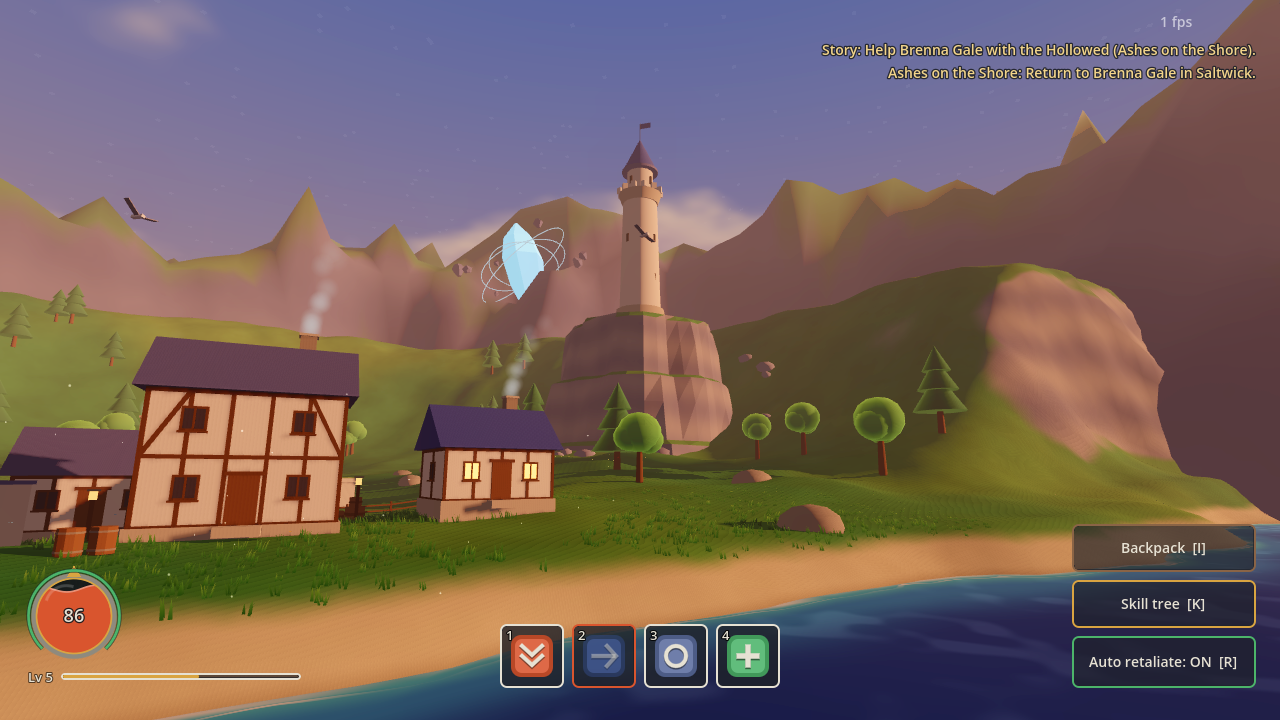
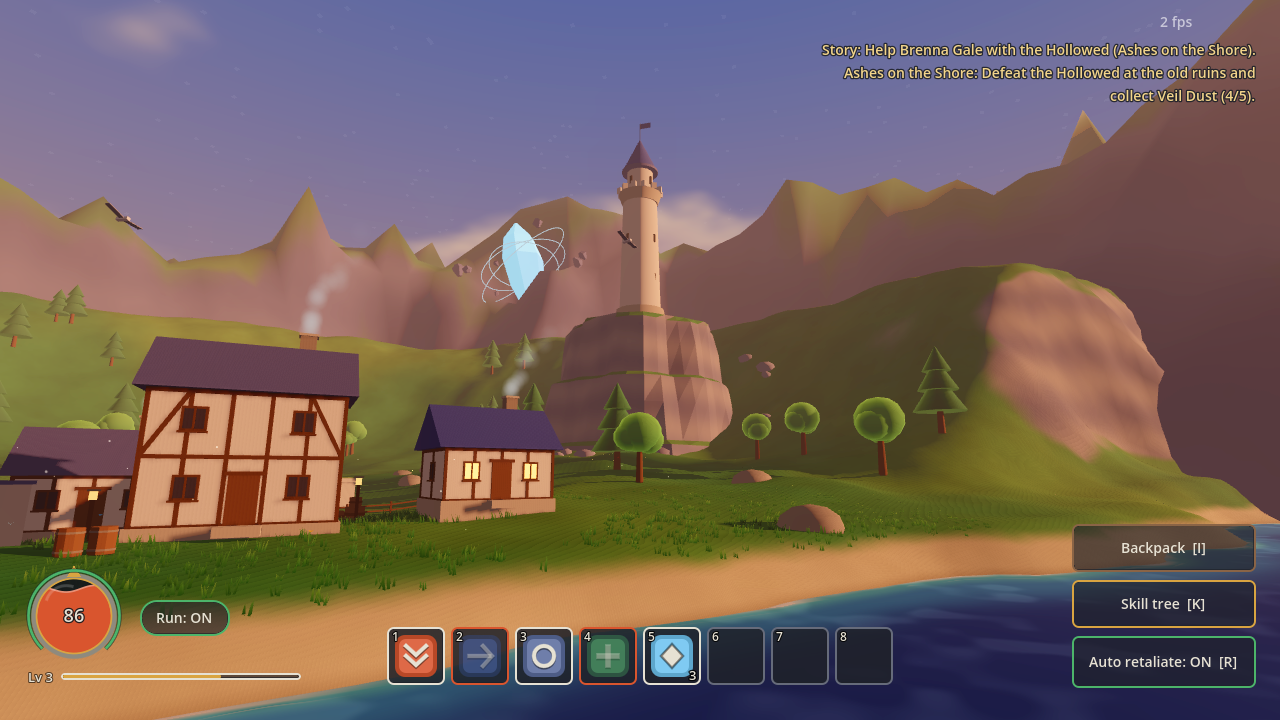
Actiebalk met 8 vakken: skills en eten slepen, wisselen, legen
Claude-Session: https://claude.ai/code/session_01X1Hshh3gfRJFNSyViJVPYM

diff --git a/CHANGELOG.md b/CHANGELOG.md
@@ -23,6 +23,7 @@ Feedback van de eigenaar verwerkt: besturing in RuneScape-stijl, haperingen bij 
 - **Padvinding:** klik je ergens, dan loopt de held om huizen, hekken, rotsen en water heen (A* op een raster van 1,25 m, opgebouwd in ongeveer 0,1 s).
 - **Rennen aan/uit, geen ontwijken (eigenaar):** Shift, Spatie of de knop "Run". Rennen kost stamina, lopen laadt op. Ontwijken is uit het spel.
 - **Spelstructuur (eigenaar):** RPG met MMORPG-gevoel, open wereld, deels lineaire questlijn met dungeons en raids onderweg. Levelen in WoW-stijl met **level cap 60**, een steilere XP-curve en monster-XP die afhangt van het levelverschil. Monsters hebben een level, dat in de doelwitbalk staat. Uitgewerkt in `docs/DESIGN.md` met gebieden per levelbereik. De Veilspire wordt de eerste kleine dungeon.
+- **Actiebalk met 8 vakken (feedback):** toetsen 1 tot 8. Sleep skills uit de skilltree (K) of eten uit de rugzak (I) erop, sleep tussen vakken om te wisselen, rechtsklik om te legen. Eten op de balk toont hoeveel je er nog hebt. Klaar voor potions zodra die er zijn.
 - **UI-ontwerp:** nieuw document `docs/UI.md` met stijlregels, schermindeling en de verfijnde versie van alle HUD-onderdelen (vraag van de eigenaar). De eerste stappen zijn gebouwd: een health-orb met golvende vloeistof en een stamina-boog, en een radiale cooldown op de skillbalk.
 - **Alles Engels in het spel:** in-game tekst was al Engels. Nu zijn ook alle namen officieel Engels (Saltwick, Warden's Vale, the Veil, the Hollowed, the Saltbound enzovoort), met een namenlijst in `docs/DESIGN.md`. Bij het binnenlopen van een gebied verschijnt de naam in beeld.
 - **Roadmap:** nieuwe koers. Eerst een verticale slice van het eerste gebied (klassen en skilltree, XP en loot, quest met dialoog, opslaan, geluid, modellen bijschaven), pas daarna de wereld uitbreiden.

diff --git a/docs/UI.md b/docs/UI.md
@@ -72,9 +72,10 @@ Dit is een smaakkeuze. Voorstel: eerst een keuze-issue openen voordat het gebouw
 
 | Onderdeel | Nu | Doel (V.11) |
 |---|---|---|
+| Rennen | **knop "Run: ON/OFF" naast de orb (gebouwd)** | ronde run-orb met stamina |
 | Health en stamina | **health-orb met golvende vloeistof en een stamina-boog (gebouwd 13-11-2026)** | afwerking: textuur op de rand, waarschuwing bij lage health |
 | Resource | ontbreekt | orb per klasse (eerst een keuze-issue) |
-| Skillbalk | 4 vlakke vakken, **radiale cooldown (gebouwd 13-11-2026)** | gebogen balk, slepen vanuit de boom |
+| Skillbalk | **8 vakken (1-8), radiale cooldown, skills uit de boom en eten uit de rugzak erop te slepen, slepen tussen vakken, rechtsklik leegt (gebouwd 13-11-2026)** | gebogen stenen balk, meer balken bij hogere levels |
 | Skilltree | knoppen in kolommen | boom met iconen en verbindingslijnen |
 | Rugzak | gekleurde ruitjes | eigen itemiconen |
 | Dialoog | paneel zonder portret | paneel met portret |

diff --git a/feedback/verwerkt/2026-11-13-questlog.md b/feedback/verwerkt/2026-11-13-questlog.md
@@ -21,7 +21,7 @@ Status: zie de volgende commits en de changelog. Hekwerk en dorpsspullen krijgen
 ## Verwerkt (13-11-2026)
 
 - **Clipping met hekwerk:** alle hekken, tonnen, kisten, vissenrekken en lantaarnpalen hebben nu botsing. Het hek heeft een poort op het pad van de vallei naar Saltwick. Klik-om-te-lopen gebruikt nu padvinding, zodat de held om huizen, hekken en water heen loopt in plaats van ertegenaan te blijven lopen.
-- **Meer dan 4 skills en eten op de balk:** volgt in de volgende commit (balk van 8 vakken, eten en drankjes erop te slepen).
+- **Meer dan 4 skills en eten op de balk:** gedaan. De actiebalk heeft 8 vakken (toetsen 1 tot 8). Sleep skills uit de skilltree of eten uit de rugzak erop. Potions komen erbij zodra ze bestaan.
 
 Uit de chat:
 - **Fase 1 afmaken:** 1.6b en 1.10 staan op "later", zoals je aangaf.

diff --git a/README.md b/README.md
@@ -12,7 +12,7 @@ De Crown of Seven Heavens is gebroken. Uit de scheuren in de lucht kruipt de Slu
 |---|---|---|
 | Lopen | WASD, of klik op de grond | linkerstick |
 | Aanvallen | klik op een monster (lopen en auto-aanval) | X |
-| Skills | 1, 2, 3, 4 (of klik op de balk) | Y, RB, LB, Back |
+| Actiebalk (skills en eten) | 1 t/m 8, klik op de balk, slepen om in te delen | Y, RB, LB, Back |
 | Camera draaien | middelste muisknop slepen of pijltjes | rechterstick |
 | Zoomen | scrollwiel of + en - | - |
 | Rennen aan/uit | Shift of Spatie, of de knop Run | linkerstick of B |
